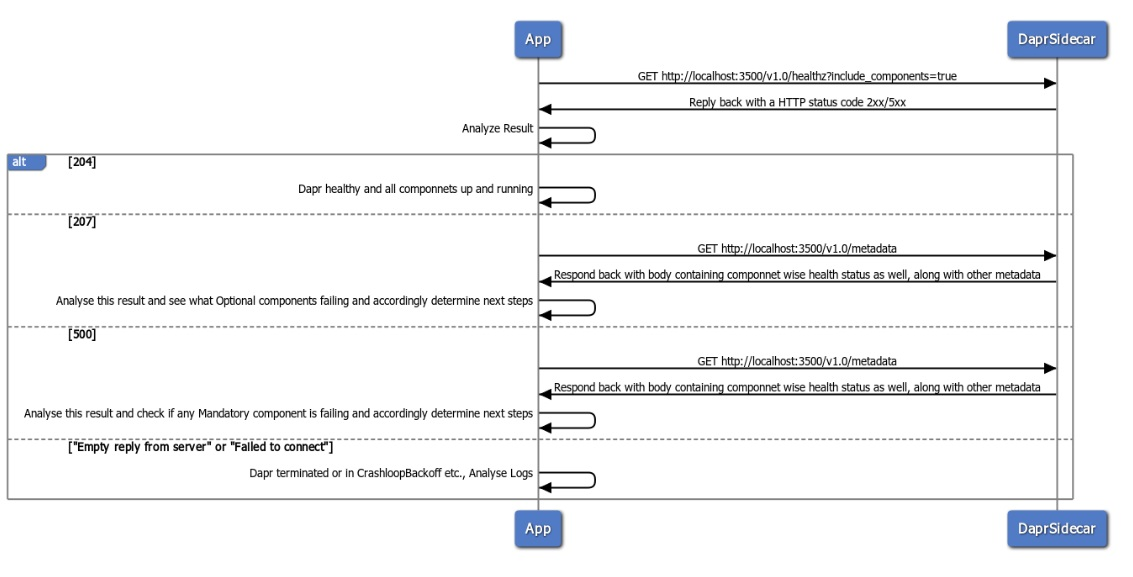
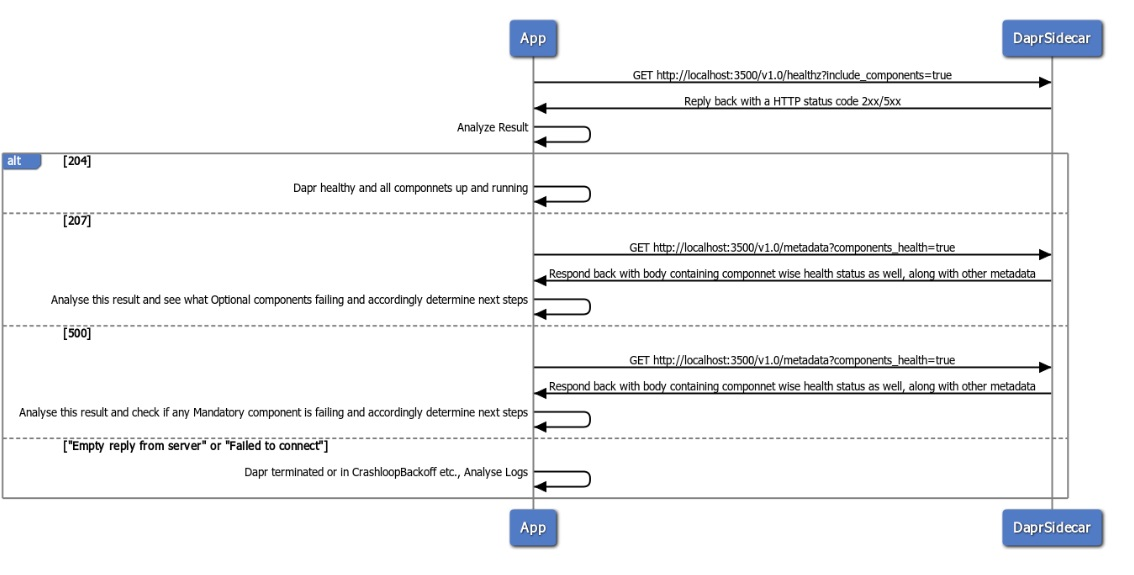
Update metadata API details

Changed region(s): [[0.0, 0.0296, 0.9885, 0.9757], [0.1545, 0.3548, 0.1853, 0.3843]]

diff --git a/0010-R-components-healthcheck.md b/0010-R-components-healthcheck.md
@@ -61,7 +61,47 @@ Working:
 - For components which don't yet implement Ping, they will be ignored for their health check.
 
 - Response of healthz endpoint will be always only a http status code.
-The result i.e. `healthCheckStatus` and `errorCode`/`message`, if required will be provided as part of `metadata` API. This is done, as dapr healthz endpoint is publicly accessible, so for security constraints, it doesn't deem good to provide component names etc. as a response of `healthz` endpoint.
+If App/user wants to enquire about detailed json kind of result, per component - metadata API can be used for this.
+This is done, as dapr healthz endpoint is publicly accessible, so for security constraints, it doesn't deem good to provide component names etc. as a response of `healthz` endpoint.
+The result i.e. `status` of healthCheck and `errorCode`/`message`, will be provided as part of `metadata` API.
+
+Currently, this is how metadata response body looks like:
+![Metadata](./resources/0010-R-components-healthcheck/metadata_current.jpg)
+
+If metadata endpoint is queried with a query parameter `components_health` set to true, it will include following:
+- Example For a healthy component:
+```
+	{
+      "name": "txnstore",
+      "type": "state.redis",
+	  "version": "v1",
+	  "capabilities": [
+        "ETAG",
+        "TRANSACTIONAL",
+        "QUERY_API",
+        "ACTOR"
+      ],
+      "status": "OK"
+    }
+```
+- Example for an un-healthy component:
+```
+	{
+      "name": "txnstore",
+      "type": "state.redis",
+	  "version": "v1",
+	  "capabilities": [
+        "ETAG",
+        "TRANSACTIONAL",
+        "QUERY_API",
+        "ACTOR"
+      ],
+      "status": "NOT_OK",
+      "errorMessage": "redis store: error connecting to redis at localhost:6379: dial tcp 127.0.0.1:6379: connect: connection refused"
+    }
+```
+- For a componnet not implementing `Ping`, `status` will not be included.
+
 
 - To implement only http endpoint, at least for the first version of this API.
 
